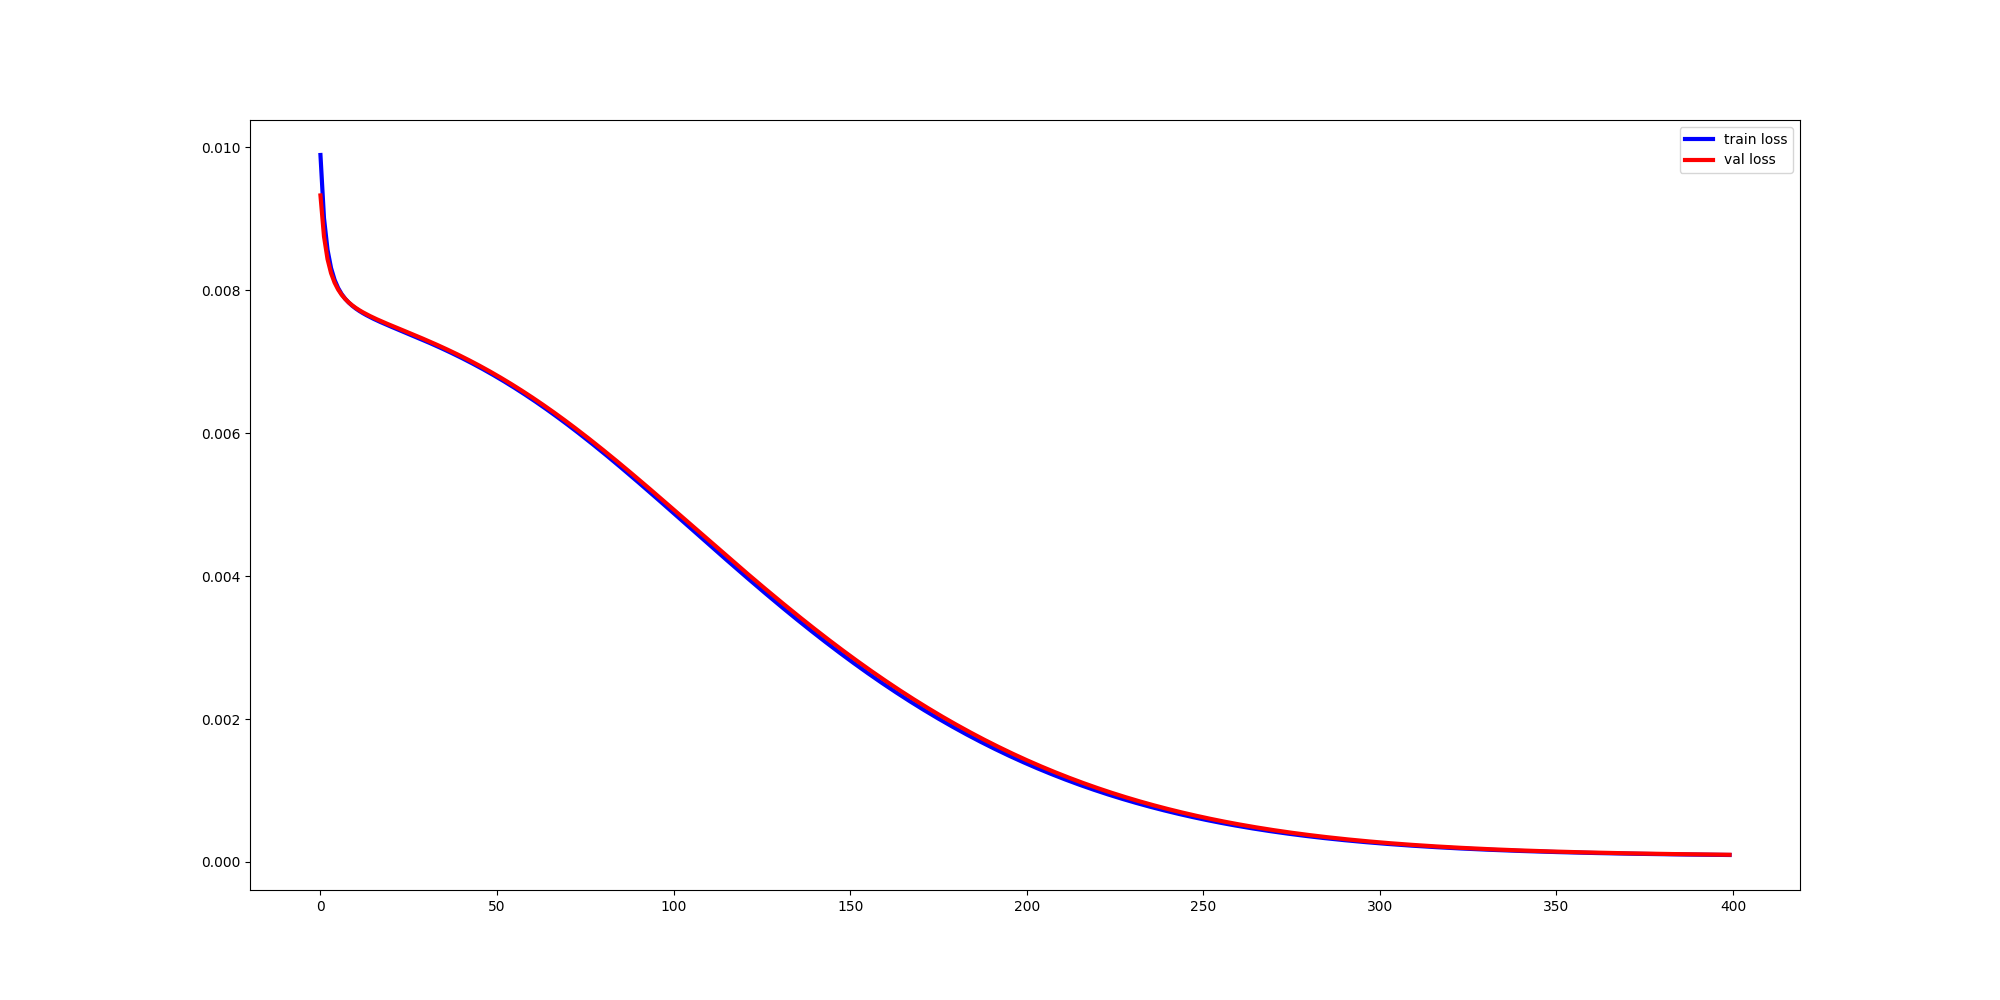
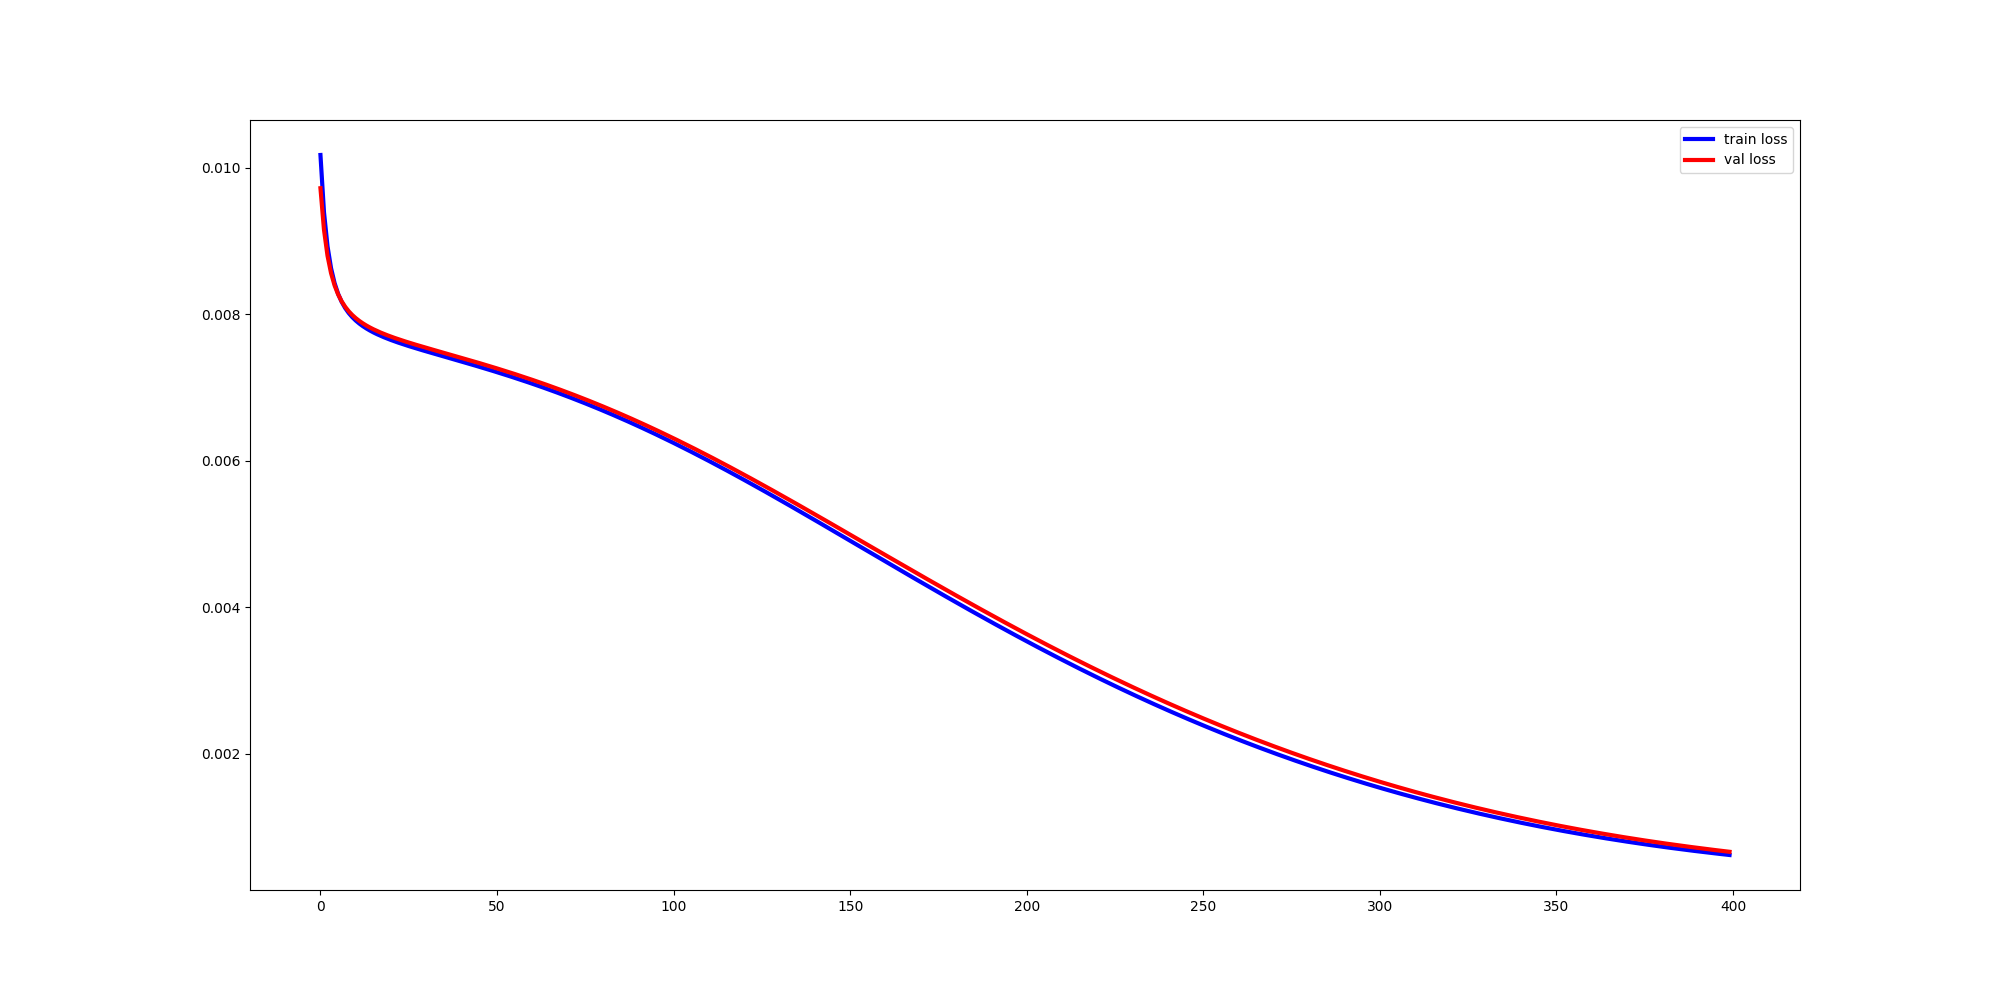
fix dmod and noise

diff --git a/main_predictors.py b/main_predictors.py
@@ -5,6 +5,7 @@ import time
 from channel import Channel
 from data import DataGenerator
 import matplotlib.pyplot as plt
+from CNN import CNN
 
 # feature_vectors = np.load(file='/app/data/feature_vectors_10knoise.npy')
 # bit_signals = np.load(file='/app/data/bit_signals_10knoise.npy')
@@ -13,20 +14,23 @@ import matplotlib.pyplot as plt
 # print(feature_vectors.shape)
 # print(labels.shape)
 
-xtrain = np.load('/app/data/feature_vectors_train_10knoise.npy')
-ytrain = np.load('/app/data/labels_train_10knoise.npy')
-btrain = np.load('/app/data/bit_signals_train_10knoise.npy')
+xtrain = np.load('data/feature_vectors_train_10knoise.npy')
+ytrain = np.load('data/labels_train_10knoise.npy')
+btrain = np.load('data/bit_signals_train_10knoise.npy')
+sbtrain=np.load('data/symbols_train_10knoise.npy')
 
-xtest = np.load('/app/data/feature_vectors_test_10knoise.npy')
-ytest = np.load('/app/data/labels_test_10knoise.npy')
-btest = np.load('/app/data/bit_signals_test_10knoise.npy')
+xtest = np.load('data/feature_vectors_test_10knoise.npy')
+ytest = np.load('data/labels_test_10knoise.npy')
+btest = np.load('data/bit_signals_test_10knoise.npy')
+sbtest=np.load('data/symbols_test_10knoise.npy')
 
-xvalidation = np.load('/app/data/feature_vectors_val_10knoise.npy')
-yvalidation = np.load('/app/data/labels_val_10knoise.npy')
-bvalidation = np.load('/app/data/bit_signals_val_10knoise.npy')
+xvalidation = np.load('data/feature_vectors_val_10knoise.npy')
+yvalidation = np.load('data/labels_val_10knoise.npy')
+bvalidation = np.load('data/bit_signals_val_10knoise.npy')
+sbval=np.load('data/symbols_val_10knoise.npy')
 
 
-ffn = FFN(xtrain=xtrain,ytrain=ytrain,xtest=xtest,ytest=ytest,
+ffn = CNN(xtrain=xtrain,ytrain=ytrain,xtest=xtest,ytest=ytest,
           xvalidation=xvalidation,yvalidation=yvalidation)
 
 start_time = time.time()
@@ -37,9 +41,9 @@ ffn.fit()
 
 print("score = ",ffn.evaluation())
 
-ypred = ffn.ypred_train
+ypred = ffn.ypred
 
-optic_fiber_channel = Channel(number_symbols=32,N=2**10,T=200)
+optic_fiber_channel = Channel(number_symbols=32,N=2**10,T=200,Length=30)
 
 print(ypred.shape)
 
@@ -50,16 +54,14 @@ print(ypred.shape)
 b_hat = []
 
 print(ypred.shape)
-for i in range(1):
+for i in range(len(ypred)):
     
     optic_fiber_channel.setter_function_nnet(ypred[i,:,0] + 1j * ypred[i,:,1])
     
     optic_fiber_channel.dmod()
     optic_fiber_channel.detector()
     optic_fiber_channel.symb_to_bit()
-    
-    print(optic_fiber_channel.s_hat)
-    print(optic_fiber_channel.Constellation)
+
     
     temp = optic_fiber_channel.b_hat
     
@@ -73,6 +75,6 @@ for i in range(1):
 
     b_hat.append(np.asarray(b_tilde))
     
-BER = np.mean(np.abs(b_hat - btrain))
+BER = np.mean(np.abs(b_hat - bvalidation))
 
 print(BER)

diff --git a/CNN.py b/CNN.py
@@ -3,10 +3,10 @@ import numpy as np
 import matplotlib.pyplot as plt
 
 
-class FFN:
+class CNN:
 
     def __init__(self, xtrain, ytrain, xtest, ytest, xvalidation, yvalidation,
-                 batch_size=700, epochs=1000, learning_rate=10,
+                 batch_size=1000, epochs=1000, learning_rate=1,
                  build_model=True, save_model=True, draw_model=True,
                  show_summary=False, show_verbose=True):
 
@@ -38,13 +38,13 @@ class FFN:
             self.xtrain.shape[1:], name='Input')
 
         self.conv1 = tf.keras.layers.Conv1D(
-            filters=10, kernel_size=2**5 ,activation='tanh', name='Conv1')(self.input_layer)
+            filters=2, kernel_size=32 ,activation='tanh', name='Conv1')(self.input_layer)
 
         self.maxpool1 = tf.keras.layers.MaxPool1D(
             pool_size=2, name='MaxPool1')(self.conv1)
 
         self.conv2 = tf.keras.layers.Conv1D(
-            filters=30,kernel_size=2**3, activation='tanh', name='Conv2')(self.maxpool1)
+            filters=20,kernel_size=32, activation='tanh', name='Conv2')(self.maxpool1)
 
         self.maxpool2 = tf.keras.layers.MaxPool1D(
             pool_size=2, name='MaxPool2')(self.conv2)
@@ -52,7 +52,7 @@ class FFN:
         self.flatten1 = tf.keras.layers.Flatten(name='Flatten1')(self.maxpool2)
 
         self.output_layer = tf.keras.layers.Dense(
-            units=self.N*2, activation='linear', name='Output')(self.maxpool2)
+            units=self.N*2, activation='linear', name='Output')(self.flatten1)
 
         self.my_model = tf.keras.models.Model(
             inputs=self.input_layer, outputs=self.output_layer)
@@ -67,9 +67,9 @@ class FFN:
 
             self.my_model.summary()
         
-        if self.draw_model:
+        #if self.draw_model:
             
-            tf.keras.utils.plot_model(self.my_model,'/app/Predictors/FFN/FFN.png',show_shapes=True)
+         #   tf.keras.utils.plot_model(self.my_model,'/app/Predictors/FFN/FFN.png',show_shapes=True)
 
     def fit(self):
 
@@ -89,14 +89,14 @@ class FFN:
         
         plt.legend()
         
-        plt.savefig('/app/Predictors/FFN/FFN_loss_val_train.png')
+        plt.savefig('Predictors/CNN/CNN_loss_val_train.png')
         
         plt.clf()
         
     def evaluation(self):
         
-        self.ypred = self.my_model.predict(self.xtest)
+        self.ypred = self.my_model.predict(self.xvalidation)
         
-        self.error = np.mean((self.ytest - self.ypred)**2)
+        self.error = np.mean((self.yvalidation - self.ypred)**2)
         
         return self.error

diff --git a/generate_data_finaly.py b/generate_data_finaly.py
@@ -7,16 +7,20 @@ import time
 
 start_time = time.time()
 
-dg = DataGenerator(T=200,N=2**10,number_symbols=32)
+dg = DataGenerator(T=200,N=2**10,number_symbols=32,Length=30)
 
-params = Params(N=2**10,T=200,number_symbols=32,nz=500)
+dg.setter_noise(sigma2=10**-4)
+
+params = Params(N=2**10,T=200,number_symbols=32,nz=500,Length=30)
 nnet_gen = Generative_Model(params=params)
 
-n_samples = 1e4
+n_samples = 10**4
 
 feature_vectors = []
 bit_signals = []
 labels = []
+symbols = []
+
 
 for i in range(n_samples):
     
@@ -25,6 +29,8 @@ for i in range(n_samples):
     dg.mod()
     
     x = dg.q0t
+
+    symbols.append(dg.s)
     
     bit_signals.append(dg.bernoulli)
     
@@ -41,13 +47,43 @@ for i in range(n_samples):
 feature_vectors = np.asarray(feature_vectors)
 bit_signals = np.asarray(bit_signals)
 labels = np.asarray(labels)
+symbols = np.asarray(symbols)
 
 print(time.time() - start_time)
 
 print(feature_vectors.shape)
 print(labels.shape)
 print(bit_signals.shape)
+print(symbols.shape)
 
-np.save(arr=feature_vectors,file='data/feature_vectors.npy')
-np.save(arr=bit_signals,file='data/bit_signals.npy')
-np.save(arr=labels,file='data/labels.npy')
+fv_train =  feature_vectors[0:7000]
+fv_test = feature_vectors[7000:9000]
+fv_val = feature_vectors[9000:]
+
+bs_train = bit_signals[0:7000]
+bs_test = bit_signals[7000:9000]
+bs_val = bit_signals[9000:]
+
+lb_train = labels[0:7000]
+lb_test = labels[7000:9000]
+lb_val = labels[9000:]
+
+sb_train = symbols[0:7000]
+sb_test = symbols[7000:9000]
+sb_val = symbols[9000:]
+
+np.save(arr=fv_train,file="data/feature_vectors_train_10knoise.npy")
+np.save(arr=fv_test,file="data/feature_vectors_test_10knoise.npy")
+np.save(arr=fv_val,file="data/feature_vectors_val_10knoise.npy")
+
+np.save(arr=bs_train,file="data/bit_signals_train_10knoise.npy")
+np.save(arr=bs_test,file="data/bit_signals_test_10knoise.npy")
+np.save(arr=bs_val,file="data/bit_signals_val_10knoise.npy")
+
+np.save(arr=lb_train,file="data/labels_train_10knoise.npy")
+np.save(arr=lb_test,file="data/labels_test_10knoise.npy")
+np.save(arr=lb_val,file="data/labels_val_10knoise.npy")
+
+np.save(arr=sb_train,file="data/symbols_train_10knoise.npy")
+np.save(arr=sb_test,file="data/symbols_test_10knoise.npy")
+np.save(arr=sb_val,file="data/symbols_val_10knoise.npy")

diff --git a/channel.py b/channel.py
@@ -7,8 +7,8 @@ from data import DataGenerator
 
 class Channel:
 
-    def __init__(self, Length=1e3, Bandwith=6, power_loss_db=0.2*1e-3, dispersion=17, Gamma=1.27,
-                 nsp=1, h=6.626*1e-34, lambda0=1.55, T=200, N=2**5, number_symbols=3, p=0.5,M=16):
+    def __init__(self, Length=30, Bandwith=6, power_loss_db=0.2, dispersion=17, Gamma=1.27,
+                 nsp=1, h=6.626*1e-34, lambda0=1550, T=200, N=2**5, number_symbols=3, p=0.5,M=16):
 
         self.Length = Length
         self.Bandwith = Bandwith
@@ -20,7 +20,7 @@ class Channel:
         self.h = h
         self.c = 3e8
         self.f0 = self.c / self.lambda0
-        self.alpha = 1e-4 * log2(10) * self.power_loss_db
+        self.alpha = 10e-4 * log2(10) * self.power_loss_db
         self.beta2 = - (self.lambda0**2 / (2 * pi * self.c)) * self.dispersion
         self.L0 = self.Length
         self.T0 = sqrt(abs(self.beta2)*self.L0 / 2)
@@ -41,6 +41,8 @@ class Channel:
             T=self.T, N=self.N, number_symbols=self.number_symbols, p=self.p, M=self.M
 
         )
+
+        self.data_generator.setter_noise(10)
         
         self.constellation = self.data_generator.Constellation
         self.Constellation = np.asarray([complex(self.constellation[i,0],
@@ -90,7 +92,7 @@ class Channel:
             z = self.Length
 
         self.z = z
-        self.a = self.sigma2 * self.Bandwith * self.z
+        self.a = self.sigma2 * self.Bandwith * self.T0 * self.z
     
 
         self.f = self.data_generator.f
@@ -142,8 +144,8 @@ class Channel:
 
         for i in range(self.l1, self.l2+1, 1):
 
-            temp = sqrt(self.Bandwith * self.T0) * np.sum(np.multiply(self.qzte,
-                                         np.sinc(self.Bandwith * self.T0 *self.t - i))) * self.dt
+            temp = sqrt(self.Bandwith 
+            * self.T0) * np.sum(self.qzte*np.sinc(self.Bandwith * self.T0 *self.t - i) * self.dt)
             
             self.s_hat.append(temp)
             

diff --git a/FFN.py b/FFN.py
@@ -6,7 +6,7 @@ import matplotlib.pyplot as plt
 class FFN:
 
     def __init__(self, xtrain, ytrain, xtest, ytest, xvalidation, yvalidation,
-                 batch_size=1000, epochs=400, learning_rate=15,
+                 batch_size=1000, epochs=400, learning_rate=10,
                  build_model=True, save_model=True, draw_model=True,
                  show_summary=False, show_verbose=True):
 
@@ -67,9 +67,9 @@ class FFN:
 
             self.my_model.summary()
         
-        if self.draw_model:
+        #if self.draw_model:
             
-            tf.keras.utils.plot_model(self.my_model,'/app/Predictors/FFN/FFN.png',show_shapes=True)
+            #tf.keras.utils.plot_model(self.my_model,'/app/Predictors/FFN/FFN.png',show_shapes=True)
 
     def fit(self):
 
@@ -89,16 +89,16 @@ class FFN:
         
         plt.legend()
         
-        plt.savefig('/app/Predictors/FFN/FFN_loss_val_train.png')
+        plt.savefig('Predictors/FFN/FFN_loss_val_train.png')
         
         plt.clf()
         
     def evaluation(self):
         
-        self.ypred = self.my_model.predict(self.xtest)
+        self.ypred = self.my_model.predict(self.xvalidation)
         
         self.ypred_train = self.my_model.predict(self.xtrain)
         
-        self.error = np.mean((self.ytest - self.ypred)**2)
+        self.error = np.mean((self.yvalidation - self.ypred)**2)
         
         return self.error

diff --git a/data.py b/data.py
@@ -6,8 +6,8 @@ import scipy
 
 class DataGenerator:
 
-    def __init__(self, Length=1e6, Bandwith=6, power_loss_db=0.2*1e-3, dispersion=17, Gamma=1.27*1e-3,
-                 nsp=1, h=6.626*1e-34, lambda0=1.55, T=200, N=2**5, number_symbols=3, p=0.5,M=16,):
+    def __init__(self, Length=30, Bandwith=6, power_loss_db=0.2, dispersion=17, Gamma=1.27,
+                 nsp=1, h=6.626*1e-34, lambda0=1550, T=200, N=2**5, number_symbols=3, p=0.5,M=16):
 
         self.Length = Length
         self.Bandwith = Bandwith # GHz to Hz
@@ -75,6 +75,10 @@ class DataGenerator:
         self.average_constellation_power = np.mean(self.Constellation[:,0]**2 + self.Constellation[:,1]**2)
         
         self.Constellation = np.divide(self.Constellation,self.average_constellation_power)
+
+    def setter_noise(self,sigma2):
+
+        self.sigma2 = sigma2
 
     def generate_constellation(self,M):
         

diff --git a/main_check_end_to_end_zero_noise.py b/main_check_end_to_end_zero_noise.py
@@ -2,25 +2,31 @@ from math import log2
 from channel import Channel
 
 Bandwith = 6
-L = 1e3
-T = 50
-N = 2**12
+L = 30
+T = 200
+N = 2**10
 p = 0.5
-Nb = 64
+Nb = 32*4
 M=16
 Ns = Nb // int(log2(M))
 
 
-optic_fiber_channel = Channel(Bandwith=Bandwith,T=T,N=N,p=p,number_symbols=Ns,nsp=0)
+optic_fiber_channel = Channel(Bandwith=Bandwith,T=T,N=N,p=p,number_symbols=Ns,nsp=1,Length=L)
+optic_fiber_channel.setter_noise(sigma2=10**-4)
 optic_fiber_channel.channel(z=L)
 optic_fiber_channel.equalize(z=L)
 optic_fiber_channel.dmod()
 optic_fiber_channel.detector()
 optic_fiber_channel.symb_to_bit()
 
-print(optic_fiber_channel.qzt)
+#print(optic_fiber_channel.qzt)
 
 s_score , b_score = optic_fiber_channel.evaluate_results()
 
 print('s score : ',s_score)
 print('b score : ',b_score)
+
+print(optic_fiber_channel.data_generator.s)
+print(optic_fiber_channel.s_hat)
+
+print(optic_fiber_channel.sigma2)
